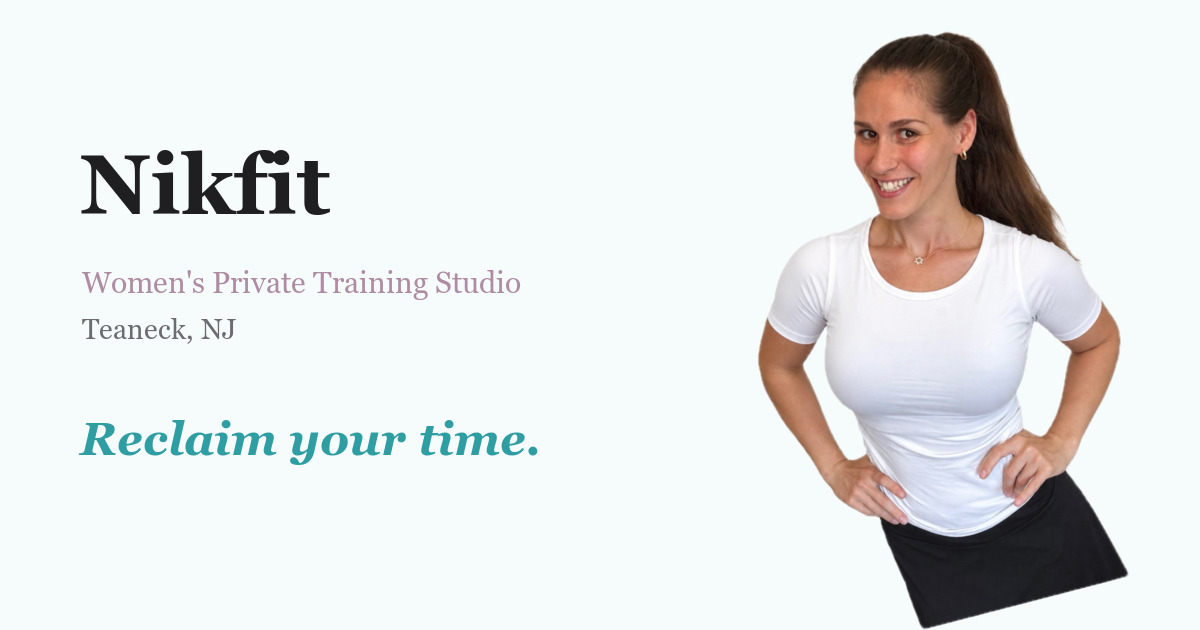
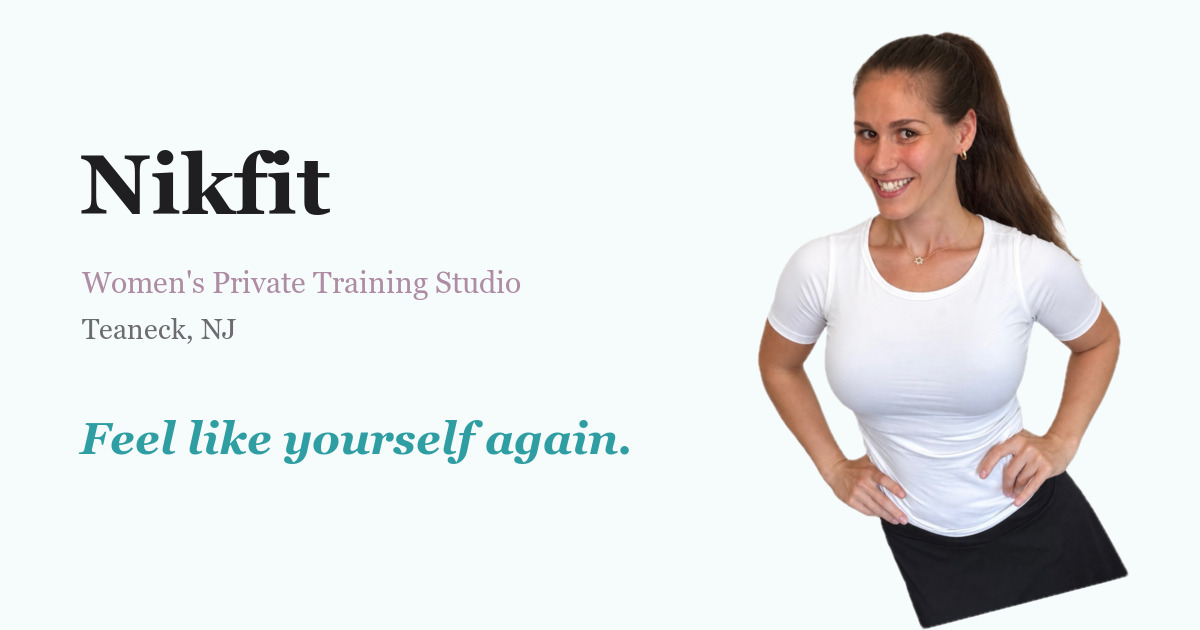
Headline: 'Feel like yourself again' (was 'Reclaim your time'); OG tagline match

Changed region(s): [[0.0617, 0.6635, 0.5242, 0.754]]

diff --git a/index.html b/index.html
@@ -80,7 +80,7 @@
     <div class="container hero-2col">
       <div class="col-text">
         <div class="eyebrow">Women's Private Training Studio · Teaneck,&nbsp;NJ</div>
-        <h1 class="h1" style="margin-top:0.6rem; margin-bottom:1.1rem;">Reclaim <em>your time</em></h1>
+        <h1 class="h1" style="margin-top:0.6rem; margin-bottom:1.1rem;">Feel like <em>yourself</em> again</h1>
         <p class="lede">An intimate space to move, strengthen, and feel like yourself. One-on-one and small-group training for women, built around your body and your goals.</p>
         <div class="btns" style="margin-top:1.75rem;">
           <a href="sms:+12017052307?&body=Hi%20Nikki%21%20I%20found%20your%20website%20and%20I%27d%20love%20to%20train%20with%20you%20%F0%9F%98%8A" class="btn btn-primary btn-hero">Send me a text</a>
@@ -97,7 +97,7 @@
   <!-- HERO -->
   <section class="hero centered hero-mob" style="padding-top: 2.5rem;">
     <div class="container">
-      <h1 class="h1" style="margin-bottom: 1.75rem;">Reclaim <em>your time</em></h1>
+      <h1 class="h1" style="margin-bottom: 1.75rem;">Feel like <em>yourself</em> again</h1>
       <img src="headshot-round.png" alt="Nikki Bildner, personal trainer" class="hero-headshot">
       <div class="eyebrow">Women's Private Training Studio · Teaneck,&nbsp;NJ</div>
       <div class="btns" style="margin-top: 1.5rem;">
